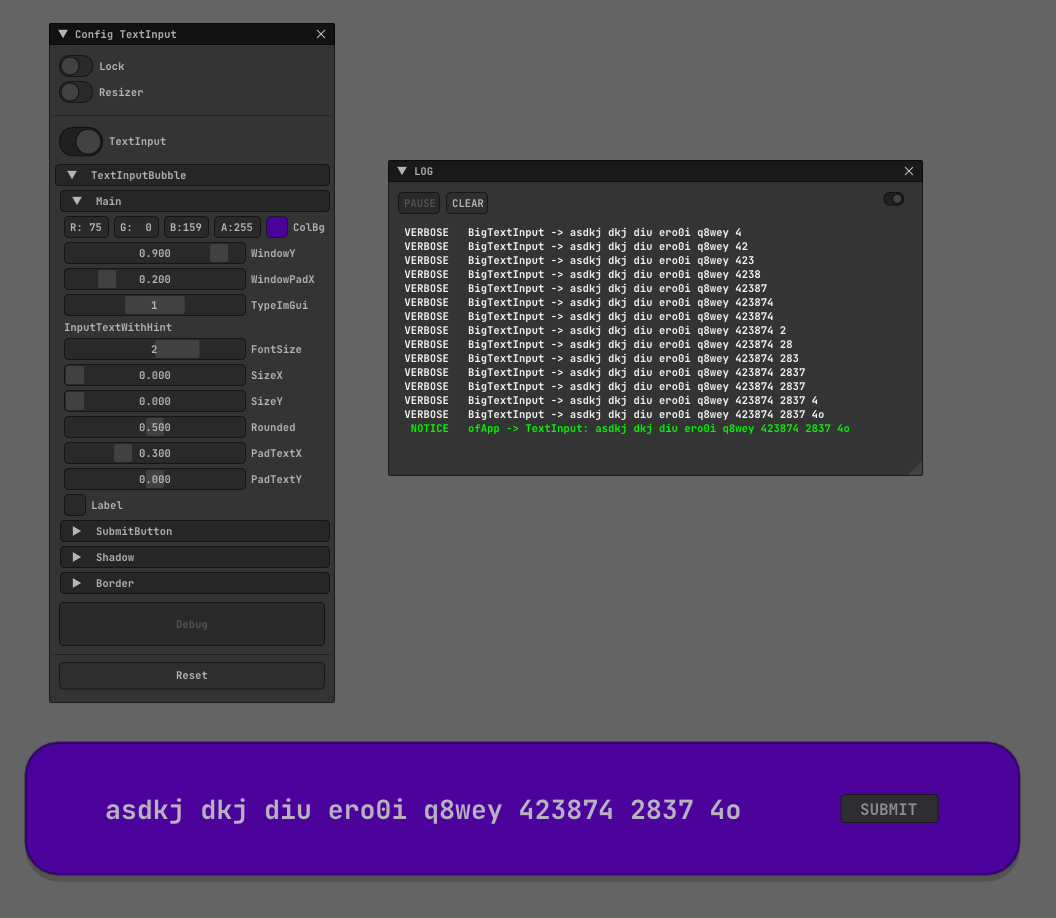
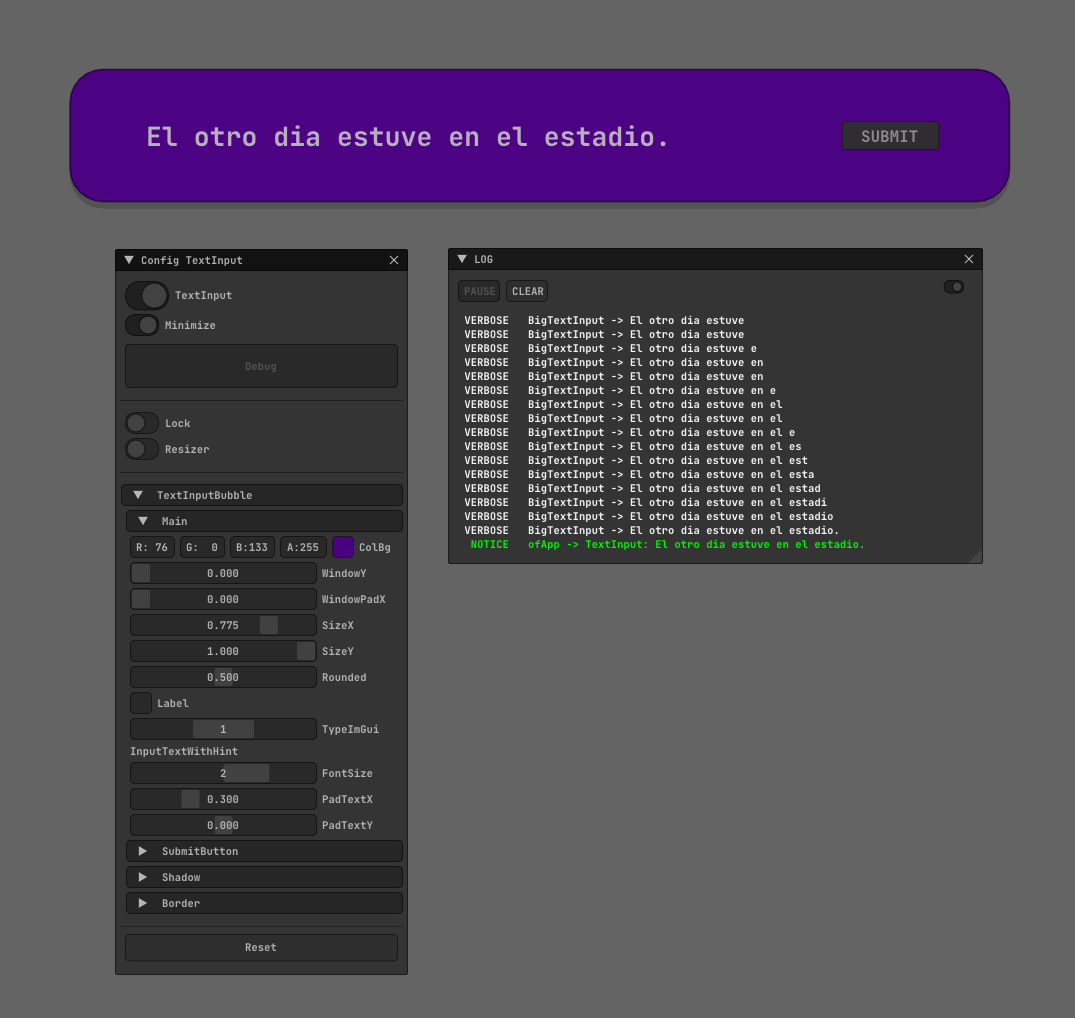
'

diff --git a/src/ImGui/widgets/BigTextInput.h b/src/ImGui/widgets/BigTextInput.h
@@ -12,6 +12,20 @@
  *
  */
 
+/*
+
+	TODO
+
+	+ add text color
+	+ fix submit responsive workflow
+	+ allow set number lines and fix responsive
+		improve multi-line size
+	+ make submit button zone as a second column
+	+ add reload last text
+	+ add browse history
+
+*/
+
  //--
 
 #pragma once
@@ -61,14 +75,15 @@ public:
 		paramsMain.add(colorBubble);
 		paramsMain.add(windowY);
 		paramsMain.add(windowPadX);
+		paramsMain.add(sizeBubbleX);
+		paramsMain.add( sizeBubbleY);
+		paramsMain.add(rounded);
+		paramsMain.add(bLabel);
 		paramsMain.add(typeInput);
 		paramsMain.add(typeInputName);
 		paramsMain.add(sizeFont);
-		paramsMain.add(sizeBubbleX, sizeBubbleY);
-		paramsMain.add(rounded);
 		paramsMain.add(padTextX);
 		paramsMain.add(padTextY);
-		paramsMain.add(bLabel);
 		params.add(paramsMain);
 
 		paramsSubmit.add(padSubmitX);
@@ -88,7 +103,9 @@ public:
 		params.add(paramsBorder);
 
 		g.add(params);
-
+		// params goes to ui
+		// g do not goes to ui. just for serialize settings.
+		 
 		//--
 
 		eTypeInput = typeInput.newListener([this](int& v)
@@ -178,8 +195,8 @@ private:
 	ofParameter<float> windowPadX{ "WindowPadX", 0, 0, 1 };
 	ofEventListener eWindowPadX;
 	ofParameter<ofColor> colorBubble{ "ColBg", ofColor::grey, ofColor(), ofColor() };
-	ofParameter<float> sizeBubbleX{ "SizeX", 0.f, 0, 1 };
-	ofParameter<float> sizeBubbleY{ "SizeY", 0.f, 0, 1 };
+	ofParameter<float> sizeBubbleX{ "SizeX", 1.f, 0, 1 };
+	ofParameter<float> sizeBubbleY{ "SizeY", 1.f, 0, 1 };
 	ofParameter<float> padTextX{ "PadTextX", 0.f, 0, 1 };
 	ofParameter<float> padSubmitX{ "PadSubmitX", 1.f, 0, 1 };
 	ofParameter<float> padTextY{ "PadTextY", 0.f, -1, 1 };
@@ -242,6 +259,7 @@ public:
 	void setHint(string s) { strHint = s; };
 	void setLabel(string s) { strLabel = s; };
 	void setSubmit(string s) { strSubmit = s; };
+	void setText(string s) { text = s; };
 
 	//--
 
@@ -268,6 +286,8 @@ private:
 		// Trigs callback to parent / ofApp
 		if (functionCallbackSubmit != nullptr) functionCallbackSubmit();
 	}
+	
+	string text = "";
 
 	//--
 
@@ -347,6 +367,13 @@ private:
 
 		if (ui.BeginWindow(bGui_Config))
 		{
+			ui.Add(bGui, OFX_IM_TOGGLE_ROUNDED_MEDIUM);
+			ui.AddMinimizerToggle();
+			ui.AddSpacing();
+
+			ui.Add(bDebug, OFX_IM_TOGGLE_BIG_BORDER_BLINK);
+			ui.AddSpacingBigSeparated();
+
 			if (ui.isMaximized())
 			{
 				ui.AddLabelBig("Window");
@@ -363,12 +390,9 @@ private:
 			}
 			ui.AddSpacingBigSeparated();
 
-			ui.Add(bGui, OFX_IM_TOGGLE_ROUNDED_MEDIUM);
-			ui.AddSpacing();
 			ui.AddGroup(params);
 			ui.AddSpacing();
 
-			ui.Add(bDebug, OFX_IM_TOGGLE_BIG_BORDER_BLINK);
 			if (ui.isMaximized() && bDebug)
 			{
 				ImGui::Checkbox("Integrate", &bIntegrate);
@@ -457,7 +481,7 @@ private:
 
 			if (!bGui_Headers) AddHeaderHeight();
 
-			static string text = "";
+			//static string text = "";
 			const char* label = strLabel.c_str();
 			const char* hint = strHint.c_str();
 			ImGuiInputTextFlags flags = ImGuiInputTextFlags_None;
@@ -506,8 +530,8 @@ private:
 
 				// Bubble Draw
 
-				float pxBubble = sizeBubbleX * (w * 0.25f);
-				float pyBubble = sizeBubbleY * (h * 0.25f);
+				float pxBubble = (1-sizeBubbleX) * (w * 0.25f);
+				float pyBubble = (1-sizeBubbleY) * (h * 0.25f);
 
 				x = p.x + pxBubble;
 				y = p.y + pyBubble;
@@ -515,8 +539,8 @@ private:
 				w -= 2 * pxBubble;
 				h -= 2 * pyBubble;
 
-				w -= 2 * sizeBubbleX;
-				h -= 2 * sizeBubbleY;
+				w -= 2 * (1-sizeBubbleX);
+				h -= 2 * (1-sizeBubbleY);
 
 				// Bubble bounding box rectangle
 				ImRect rBB(x, y, w, h);
@@ -764,13 +788,13 @@ private:
 		windowPadX = 0.2;
 		
 		//colorBubble = ofColor(32, 255);
-		colorShadow = ofColor(32, 64);
 		//colorBorder = ofColor(0, 0);
+		colorShadow = ofColor(32, 64);
 
 		typeInput = 1; //hint
 		sizeFont = 2;
 		rounded = .5;
-		sizeBubbleX = sizeBubbleY = 0;
+		sizeBubbleX = sizeBubbleY = 1;
 
 		bDebug = 0;
 		bBlink = 0;

diff --git a/src/ImGui/GuiManager.h b/src/ImGui/GuiManager.h
@@ -1589,24 +1589,24 @@ public:
     // Force autodraw
     // LEGACY
     //--------------------------------------------------------------
-    void setImGuiAutodraw(bool b) { bAutoDraw = b; }
+    void setImGuiAutodraw(bool b=1) { bAutoDraw = b; }
     // Must be called before setup! default is false. For ImGui multi-instance.
 
-    void setImGuiAutoResize(bool b) { bAutoResize = b; }
+    void setImGuiAutoResize(bool b=1) { bAutoResize = b; }
     // Must be called before setup! default is false. For ImGui multi-instance.
 
     //--
 
-    void setImGuiViewPort(bool b) { bViewport = b; }
+    void setImGuiViewPort(bool b=1) { bViewport = b; }
     // Must be called before setup! 
 
-    void setImGuiDocking(bool b) { setDocking(b); }
+    void setImGuiDocking(bool b=1) { setDocking(b); }
     // Must call before setup
 
-    void setImGuiDockingModeCentered(bool b) { bDockingModeCentered = b; }
+    void setImGuiDockingModeCentered(bool b=1) { bDockingModeCentered = b; }
     // Allows docking on bg window viewport. Default is enabled. Must be called before setup! 
 
-    void setImGuiDockingShift(bool b) { ImGui::GetIO().ConfigDockingWithShift = b; }
+    void setImGuiDockingShift(bool b=1) { ImGui::GetIO().ConfigDockingWithShift = b; }
 
     //--
 
@@ -1614,7 +1614,7 @@ public:
     // Force shared context
 
     //--------------------------------------------------------------
-    void setImGuiSharedMode(bool b)
+    void setImGuiSharedMode(bool b=1)
     {
         //gui.setSharedMode(b); // Not anymore, fully automatic now
     }

diff --git a/Examples/03_WidgetsBigTextInput/src/ofApp.cpp b/Examples/03_WidgetsBigTextInput/src/ofApp.cpp
@@ -8,10 +8,12 @@ void ofApp::setup()
 
     //--
 
+    //ui.setImGuiViewPort();
     ui.setup();
 
     // Optional customizations
-    // Custom path for multinstances
+    // Custom path for multi-instances 
+    // avoid "collide folders".
     // or to organize bin/data
     // bigTextInput.setPathGlobal("Gpt");
     // bigTextInput.setName("Prompt");
